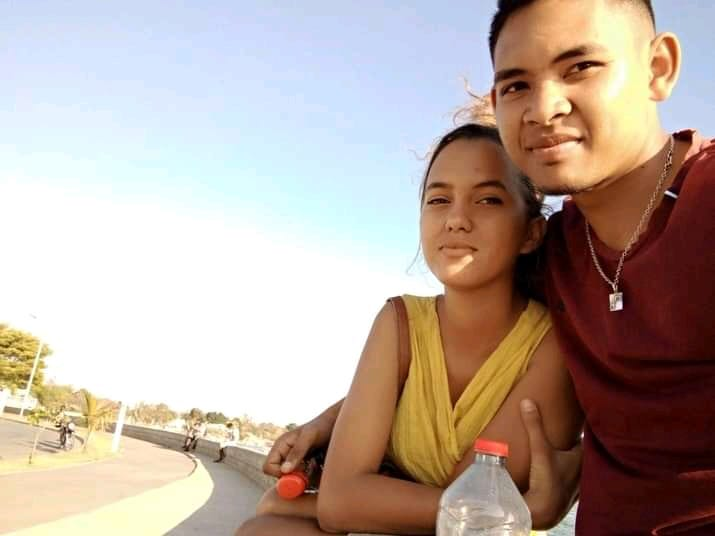
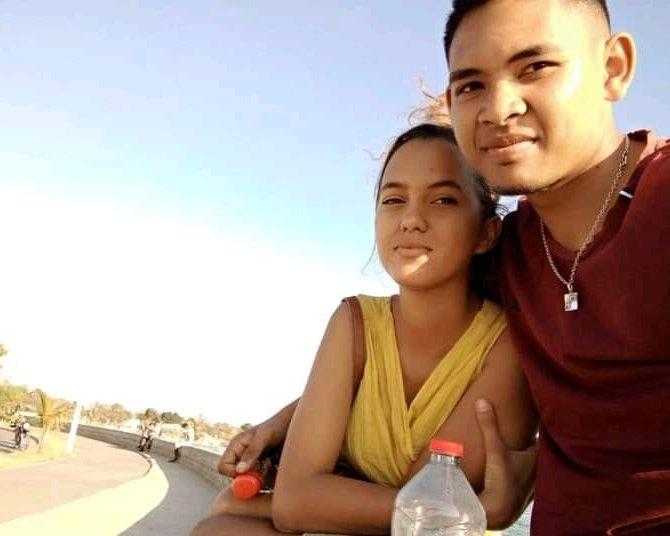
Add images and XML metadata for cp1 and cp2; comment out unused imports in Result.tsx

Changed region(s): [[0.0, 0.0, 0.9851, 1.0], [0.8955, 0.9851, 0.9254, 1.0]]

diff --git a/src/pages/Result.tsx b/src/pages/Result.tsx
@@ -1,5 +1,6 @@
-import { DotLottieReact } from "@lottiefiles/dotlottie-react";
+// import { DotLottieReact } from "@lottiefiles/dotlottie-react";
 import { RotateCcw } from "lucide-react";
+import cp1 from "./../img/cp1.jpeg";
 
 interface ResultProps {
     setShow: (value: String) => void;
@@ -8,7 +9,8 @@ interface ResultProps {
 const Result = ({ setShow }: ResultProps) => {
     return (
         <div className="relative">
-            <DotLottieReact src="/catFeeling.lottie" autoplay loop />
+            {/* <DotLottieReact src="/catFeeling.lottie" autoplay loop /> */}
+            <img src={cp1} alt="cp1" className="w-1/2 mx-auto rounded-2xl"/>
             <div className="w-full flex justify-center absolute top-3/4">
                 <p>Youuupiiii</p>
             </div>
